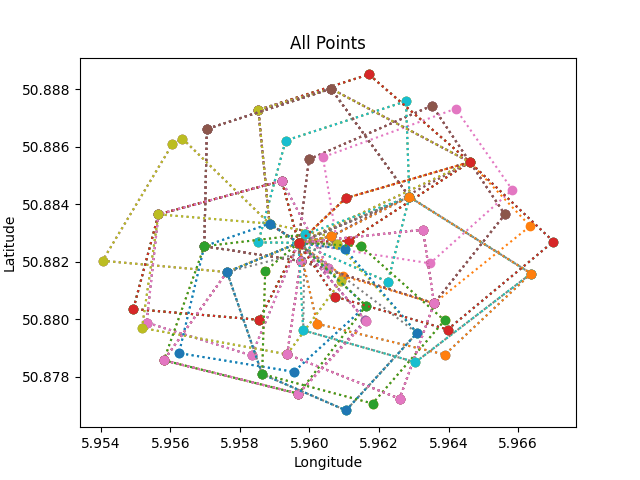
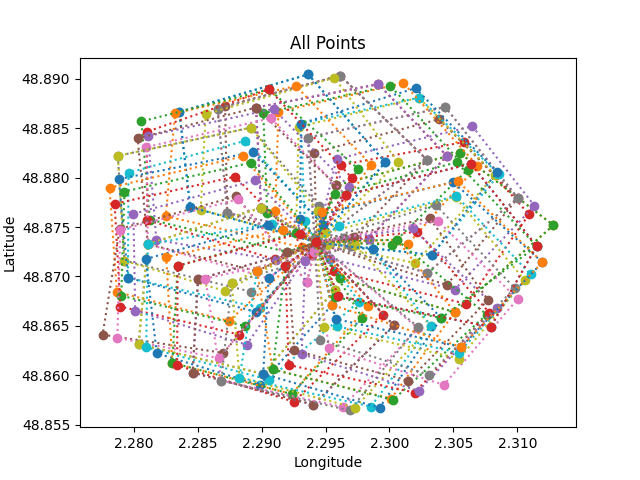
visualized the best path also

diff --git a/srm/Core/SmartRouteMaker/Visualizer.py b/srm/Core/SmartRouteMaker/Visualizer.py
@@ -149,6 +149,37 @@ class Visualizer:
         if save_path:
             plt.savefig(save_path, format="png")
 
+    def visualize_best_path(self, path: list, graph: MultiDiGraph) -> None:
+        """Visualize the best path.
+
+        Parameters
+        ----------
+        - path (list): List of paths representing leaf nodes.
+        - graph (MultiDiGraph): The graph containing node coordinates.
+        - save_path (str, optional): Path to save the plot image. If None, the plot is not saved.
+
+        Returns
+        -------
+        - None
+        """
+        save_path = "srm/Images/best_path_points.png"
+        
+        fig, ax = plt.subplots()
+
+        # Extract x and y coordinates from nodes
+        leaf_x = [graph.nodes[node]["x"] for node in path]
+        leaf_y = [graph.nodes[node]["y"] for node in path]
+
+        # Plot the leaf path
+        ax.plot(leaf_x, leaf_y, marker='o', linestyle=':')
+        # Set labels and title
+        ax.set_xlabel('Longitude')
+        ax.set_ylabel('Latitude')
+        ax.set_title('All Points')
+
+        if save_path:
+            plt.savefig(save_path, format="png")
+
     def visualize_elevations(self, graph, path):
         """Visualize the elevations of a path and save the plot as an image."""
         elevation_data = srtm.get_data()

diff --git a/srm/Core/SmartRouteMaker/Facades/SmartRouteMakerFacade.py b/srm/Core/SmartRouteMaker/Facades/SmartRouteMakerFacade.py
@@ -249,13 +249,14 @@ class SmartRouteMakerFacade():
         #add start node to the end to make full circle
         path.append(start_node)
 
+        self.visualizer.visualize_best_path(path, graph)
+
         # Get the path length of the best path
         path_length = path_lengths[best_path_index]
         elevation_diff = self.analyzer.calculate_elevation_diff(graph, path)
         # Visualize the elevation profile of the path with matplotlib
         self.visualizer.visualize_elevations(graph, path)
 
-        # calculate the total elevation of the path
         
         print(path)
         print("path length (closest to input) meter: ", path_length)
